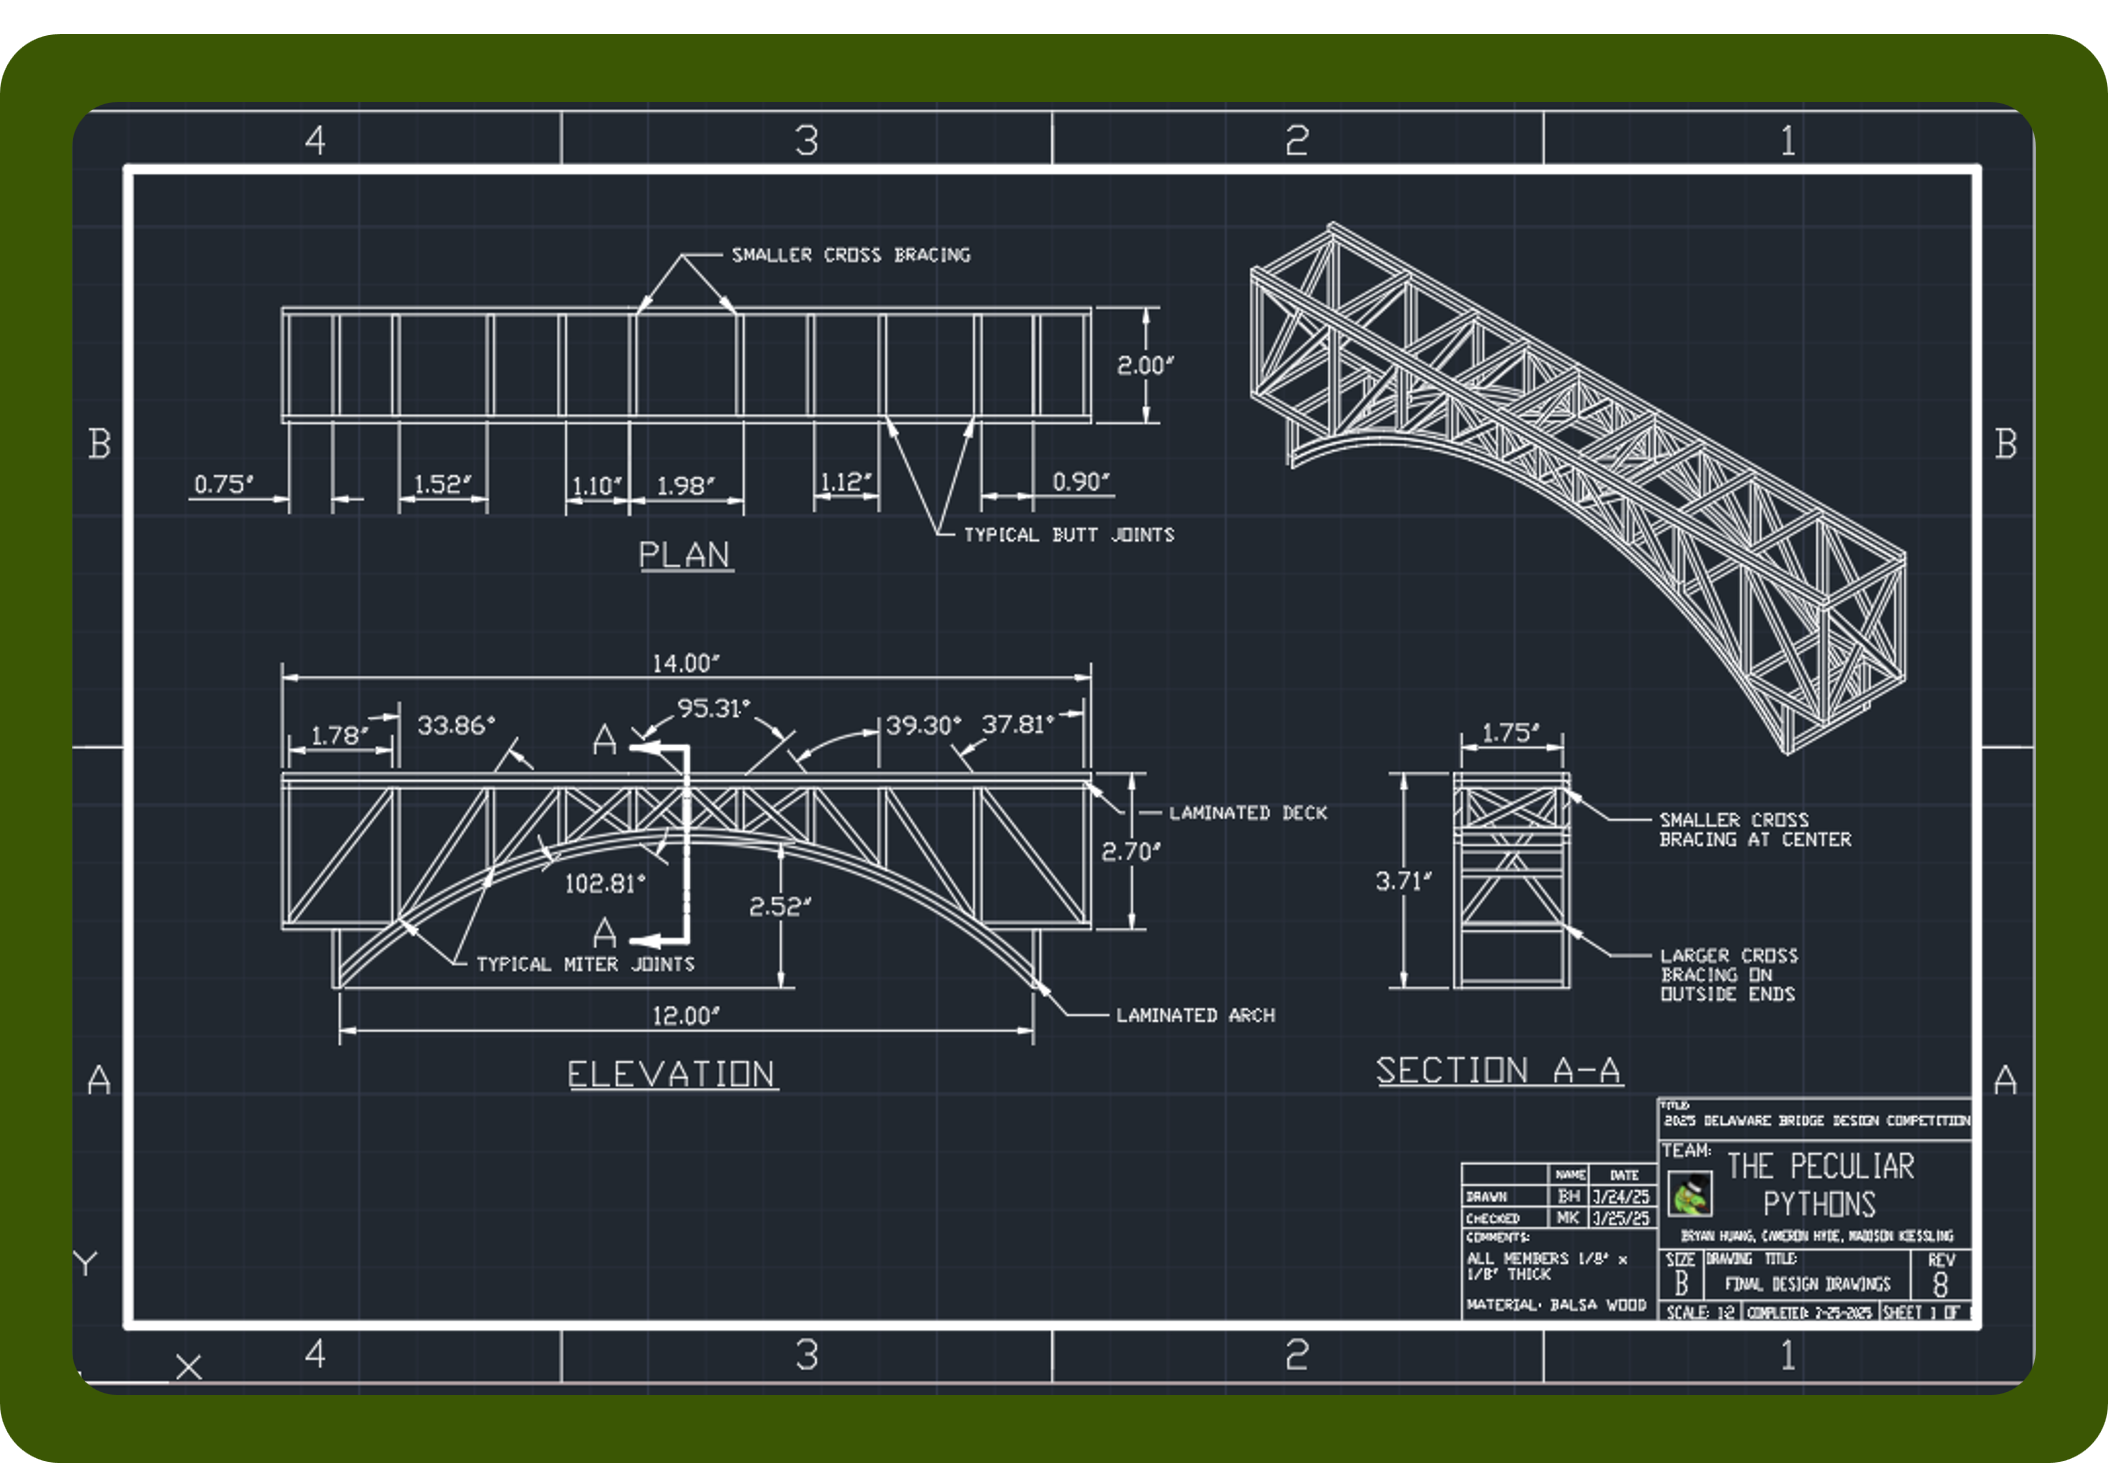
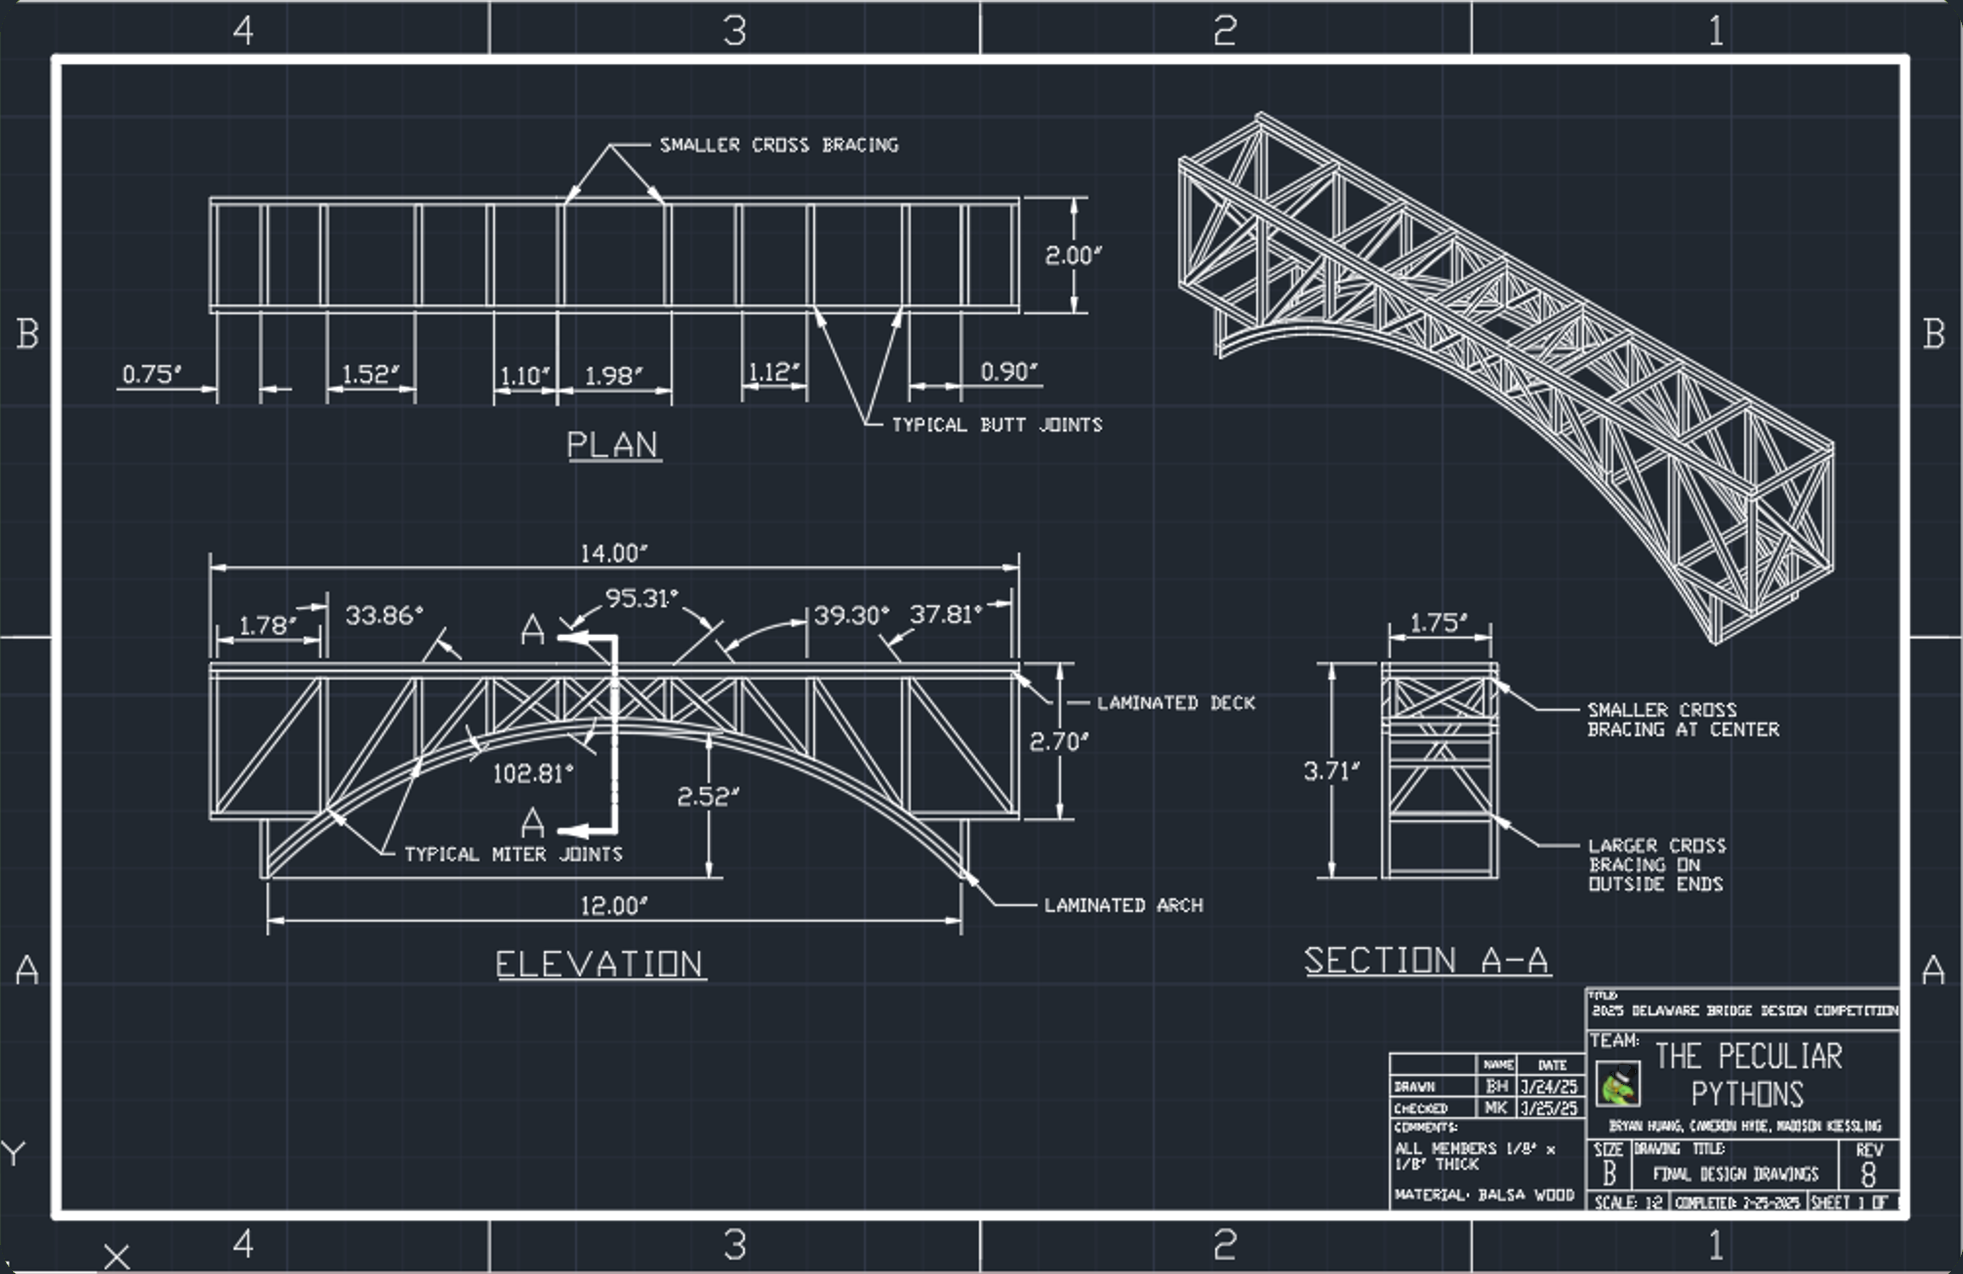
Swap bridge project preview on index to borderless 2025 AutoCAD technical blueprint

diff --git a/index.html b/index.html
@@ -450,10 +450,10 @@
           <div class="subtitle">1st Place State Champions &bull; SOLIDWORKS &amp; AutoCAD</div>
 
           <figure class="project-figure">
-            <a href="./images/bridge-2025-iterations.jpg" target="_blank" rel="noopener" title="Click to view full resolution">
-              <img src="./images/bridge-2025-iterations.jpg" alt="Calibrated SOLIDWORKS CAD progression: Design 1 baseline vs. final Revision 8" loading="lazy" />
+            <a href="./images/bridge-2025-technical-drawing.png" target="_blank" rel="noopener" title="Click to view full resolution">
+              <img src="./images/bridge-2025-technical-drawing.png" alt="Complete AutoCAD technical blueprint: plan, elevation, section A-A, and isometric views with full dimensioning" loading="lazy" />
             </a>
-            <figcaption>Calibrated SOLIDWORKS CAD progression: Design 1 baseline vs. final Revision 8</figcaption>
+            <figcaption>Complete AutoCAD technical blueprint: plan, elevation, section A-A, and isometric views with full dimensioning (Delaware Bridge Design Competition &bull; Team: The Peculiar Pythons &bull; Rev 8)</figcaption>
           </figure>
 
           <p style="font-size: 0.92rem; color: var(--text-muted); margin-bottom: 1rem;">
